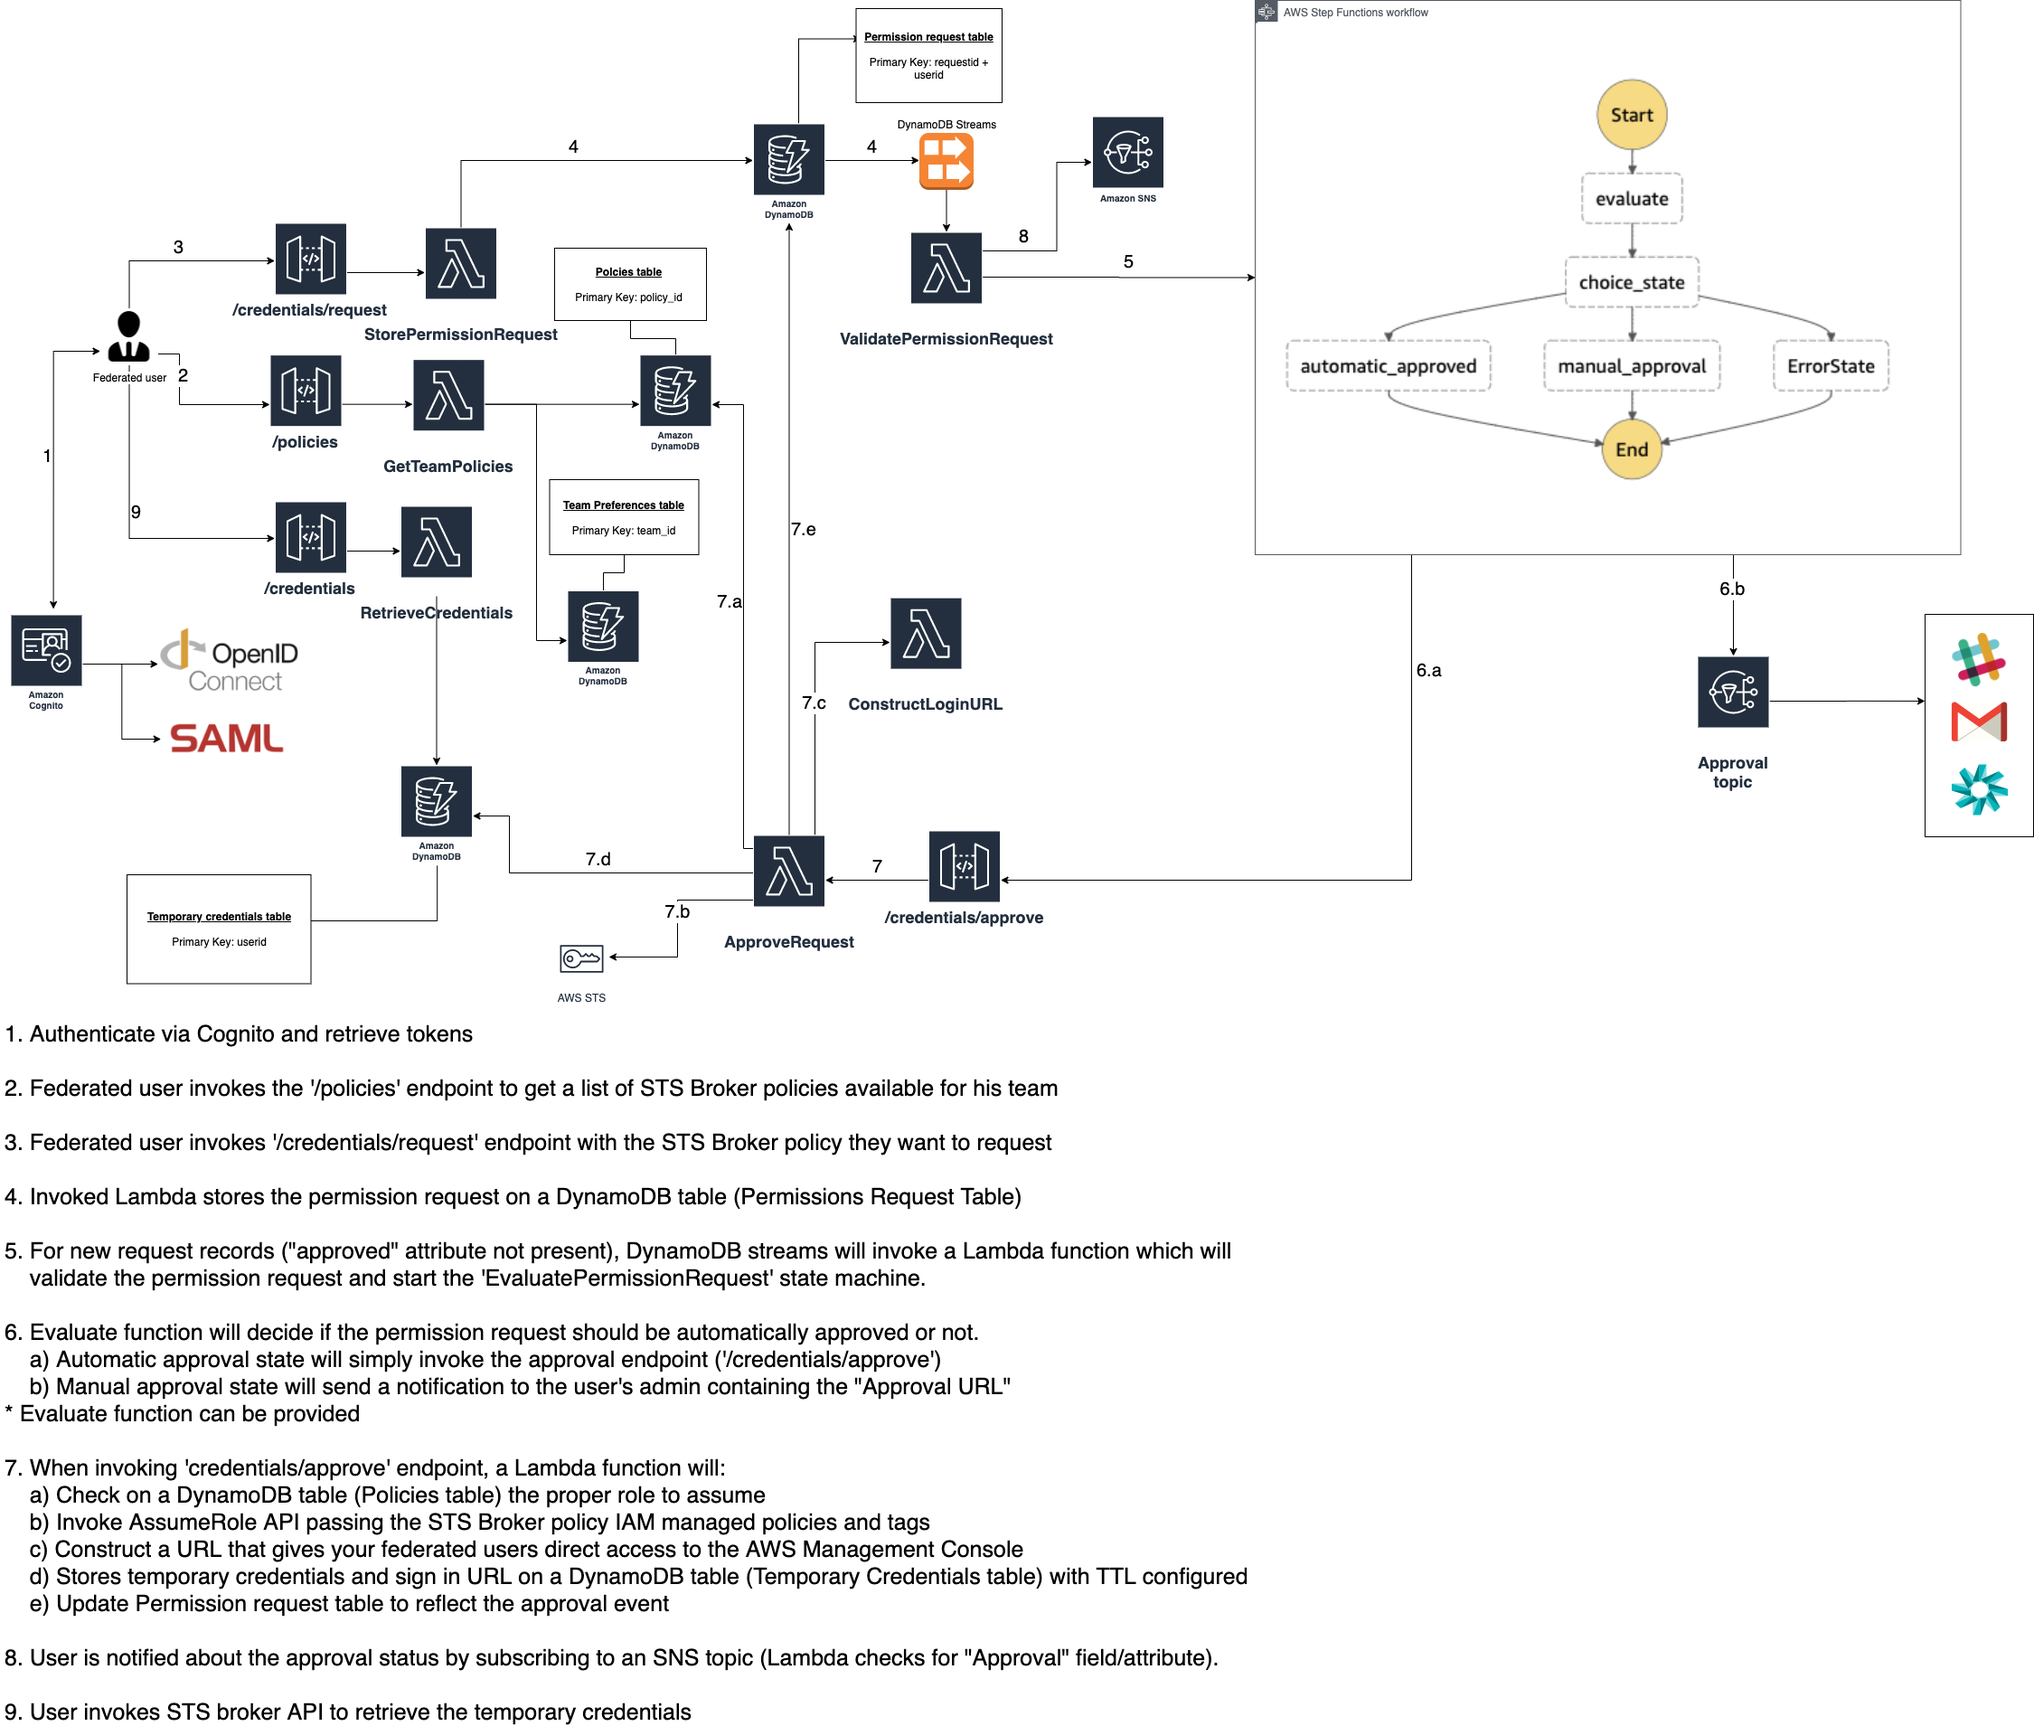
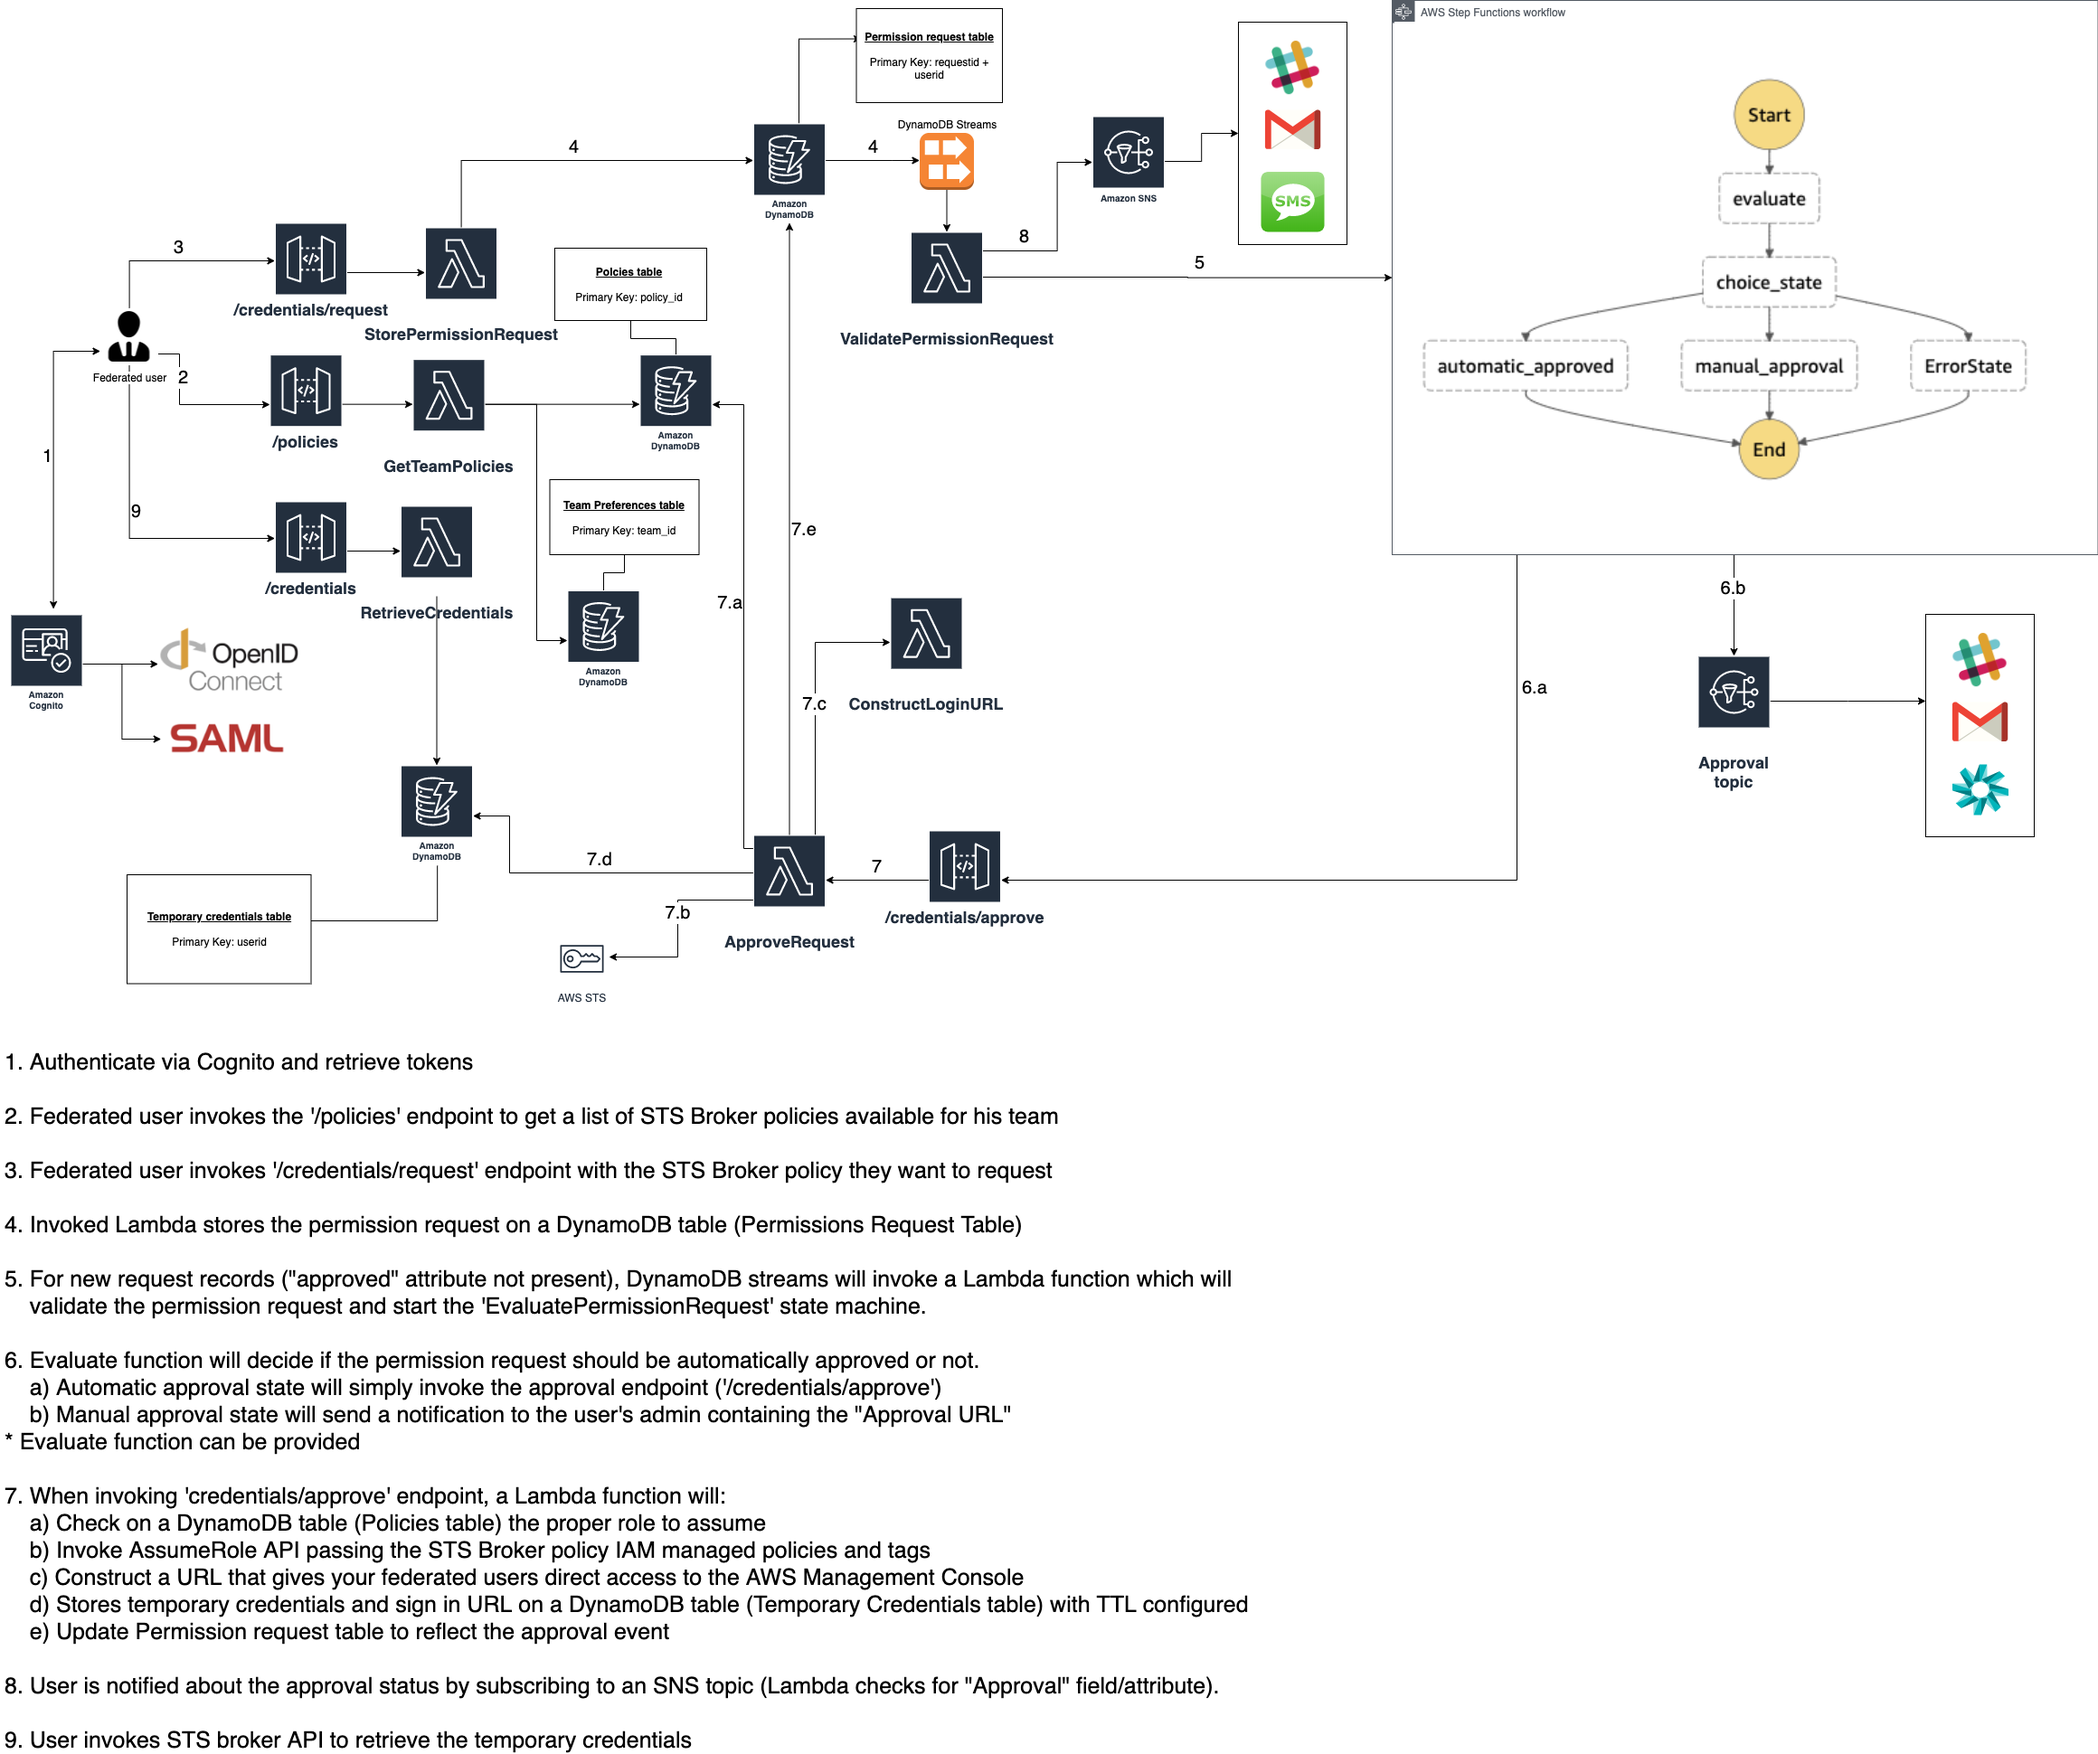
Notify user via E-mail or SMS

diff --git a/sts-broker-core/email_subscription/app.js b/sts-broker-core/email_subscription/app.js
@@ -1,0 +1,86 @@
+'use strict';
+
+const AWS = require('aws-sdk');
+
+var sns = new AWS.SNS();
+var cognitoidentityserviceprovider = new AWS.CognitoIdentityServiceProvider();
+
+async function asyncForEach(array, callback) {
+    for (let index = 0; index < array.length; index++) {
+        await callback(array[index], index, array);
+    }
+}
+
+exports.lambdaHandler = async (event, context, callback) => {
+
+    try {
+        // Check if user already have a subscription
+        var params = {
+          UserPoolId: event.userPoolId,
+          Username: event.userName
+        };
+        var user = await cognitoidentityserviceprovider.adminGetUser(params).promise();
+
+        var subscription_exists;
+
+        await asyncForEach(user.UserAttributes, async(attribute) => {
+            console.log(attribute);
+            if (attribute.Name == "custom:subscription_arn") {
+                console.log("Subscription already exists for this user");
+                subscription_exists = true;
+            }
+        });
+
+        // Create a E-mail subscription if does not exist
+
+        console.log("Create a E-mail subscription if does not exist");
+        if (!subscription_exists) {
+            var filter_policy = { "channel": ["email"], "event": ["permission_approval"], "user_id": [event.request.userAttributes.sub] };
+
+            var params = {
+              Protocol: 'email',
+              TopicArn: process.env.USER_NOTIFICATION_TOPIC,
+              Attributes: {
+                'FilterPolicy': JSON.stringify(filter_policy),
+              },
+              Endpoint: event.request.userAttributes.email,
+              ReturnSubscriptionArn: true
+            };
+
+            var subscription = await sns.subscribe(params).promise();
+
+            if (subscription.SubscriptionArn) {
+                // Update user 'subscription_arn' attribute
+                var params = {
+                  UserAttributes: [
+                    {
+                      Name: 'custom:subscription_arn',
+                      Value: subscription.SubscriptionArn
+                    }
+                  ],
+                  UserPoolId: event.userPoolId,
+                  Username: event.userName
+                };
+                await cognitoidentityserviceprovider.adminUpdateUserAttributes(params).promise();
+            }
+        }
+        callback(null, event);
+
+    } catch (error) {
+        errorResponse(error.message, context.awsRequestId, callback);
+    }
+
+};
+
+function errorResponse(errorMessage, awsRequestId, callback) {
+    callback(null, {
+        statusCode: 500,
+        body: JSON.stringify({
+            Error: errorMessage,
+            Reference: awsRequestId,
+        }),
+        headers: {
+            'Access-Control-Allow-Origin': '*',
+        },
+    });
+}

diff --git a/sts-broker-core/evaluate_request/validate.js b/sts-broker-core/evaluate_request/validate.js
@@ -25,13 +25,22 @@ exports.lambdaHandler = async(event, context, callback) => {
             if (request.approved) {
                 console.log("Permission request is already approved. Sending notification to federated user...");
 
-                var msg = {};
-                msg["userid"] = request.userid;
-                msg["notificationTarget"] = request.notificationTarget;
+                var msg = 'Hello user, \n\n' +
+                     'Good news! Your permission request has been approved.\n\n' +
+                     'Permission request ID: ' + request.requestid + '\n\n' +
+                     'STS Broker policy requested: \n' +
+                     request.policy +
+                     '\n\nFederated user e-mail : ' + request.email +
+                     '\n\nThanks,\n' +
+                     'Approval Team\n';
 
                 var params = {
                     Subject: 'Permission request approved',
                     MessageAttributes: {
+                        user_id: {
+                            DataType: 'String',
+                            StringValue: request.userid
+                        },
                         team: {
                             DataType: 'String',
                             StringValue: request.team
@@ -40,12 +49,16 @@ exports.lambdaHandler = async(event, context, callback) => {
                             DataType: 'String',
                             StringValue: request.notificationChannel
                         },
+                        target: {
+                            DataType: 'String',
+                            StringValue: request.notificationTarget
+                        },
                         event: {
                            DataType: 'String',
                            StringValue: "permission_approval"
                        }
                     },
-                    Message: JSON.stringify(msg),
+                    Message: msg,
                     TopicArn: process.env.USER_NOTIFICATION_TOPIC
                 };
 

diff --git a/notify_user/sms.js b/notify_user/sms.js
@@ -1,0 +1,30 @@
+'use strict';
+
+const aws = require('aws-sdk');
+var sns = new aws.SNS({apiVersion: '2010-03-31', region: 'us-east-1'});
+
+var params = {
+  attributes: {
+    'DefaultSenderID': 'STS Broker',
+    'DefaultSMSType': 'Transactional'
+  }
+};
+sns.setSMSAttributes(params, function(err, data) {
+    if (err) console.log(err, err.stack);
+    else     console.log(data);
+});
+
+exports.handler = (event, context, callback) => {
+
+    // Notify user through SMS
+
+    var params = {
+        Message: event["Records"][0]["Sns"]["Message"],
+        PhoneNumber: event["Records"][0]["Sns"]["MessageAttributes"]["target"]["Value"],
+        Subject: 'AWS Permission request'
+    };
+    sns.publish(params, function(err, data) {
+        if (err) console.log(err, err.stack);
+        else     console.log(data);
+    });
+}

diff --git a/notify_user/slack.js b/notify_user/slack.js
@@ -1,0 +1,10 @@
+'use strict';
+
+exports.handler = async (event, context, callback) => {
+    console.log(event["Records"][0]["Sns"]);
+
+    // TODO: Notify user via slack
+
+    console.log(event["Records"][0]["Sns"]);
+
+}
